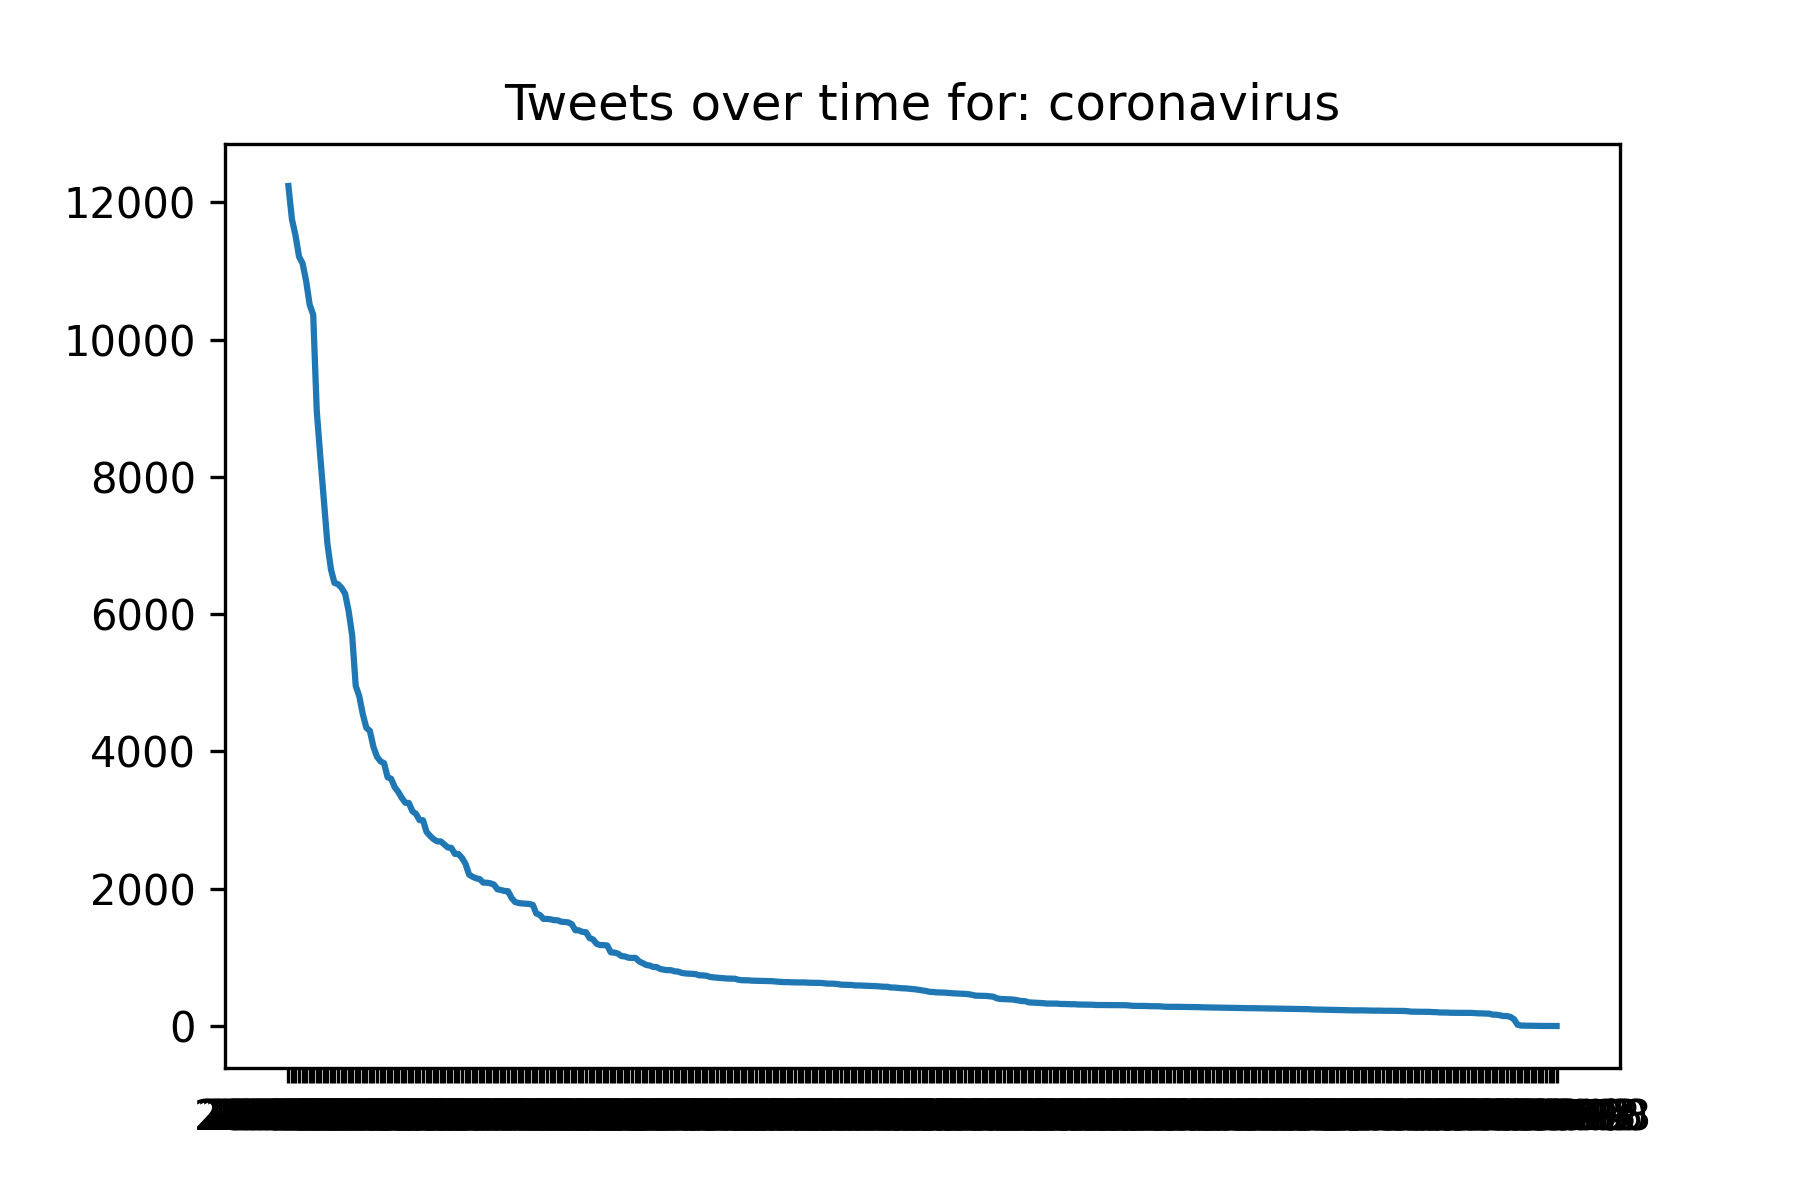
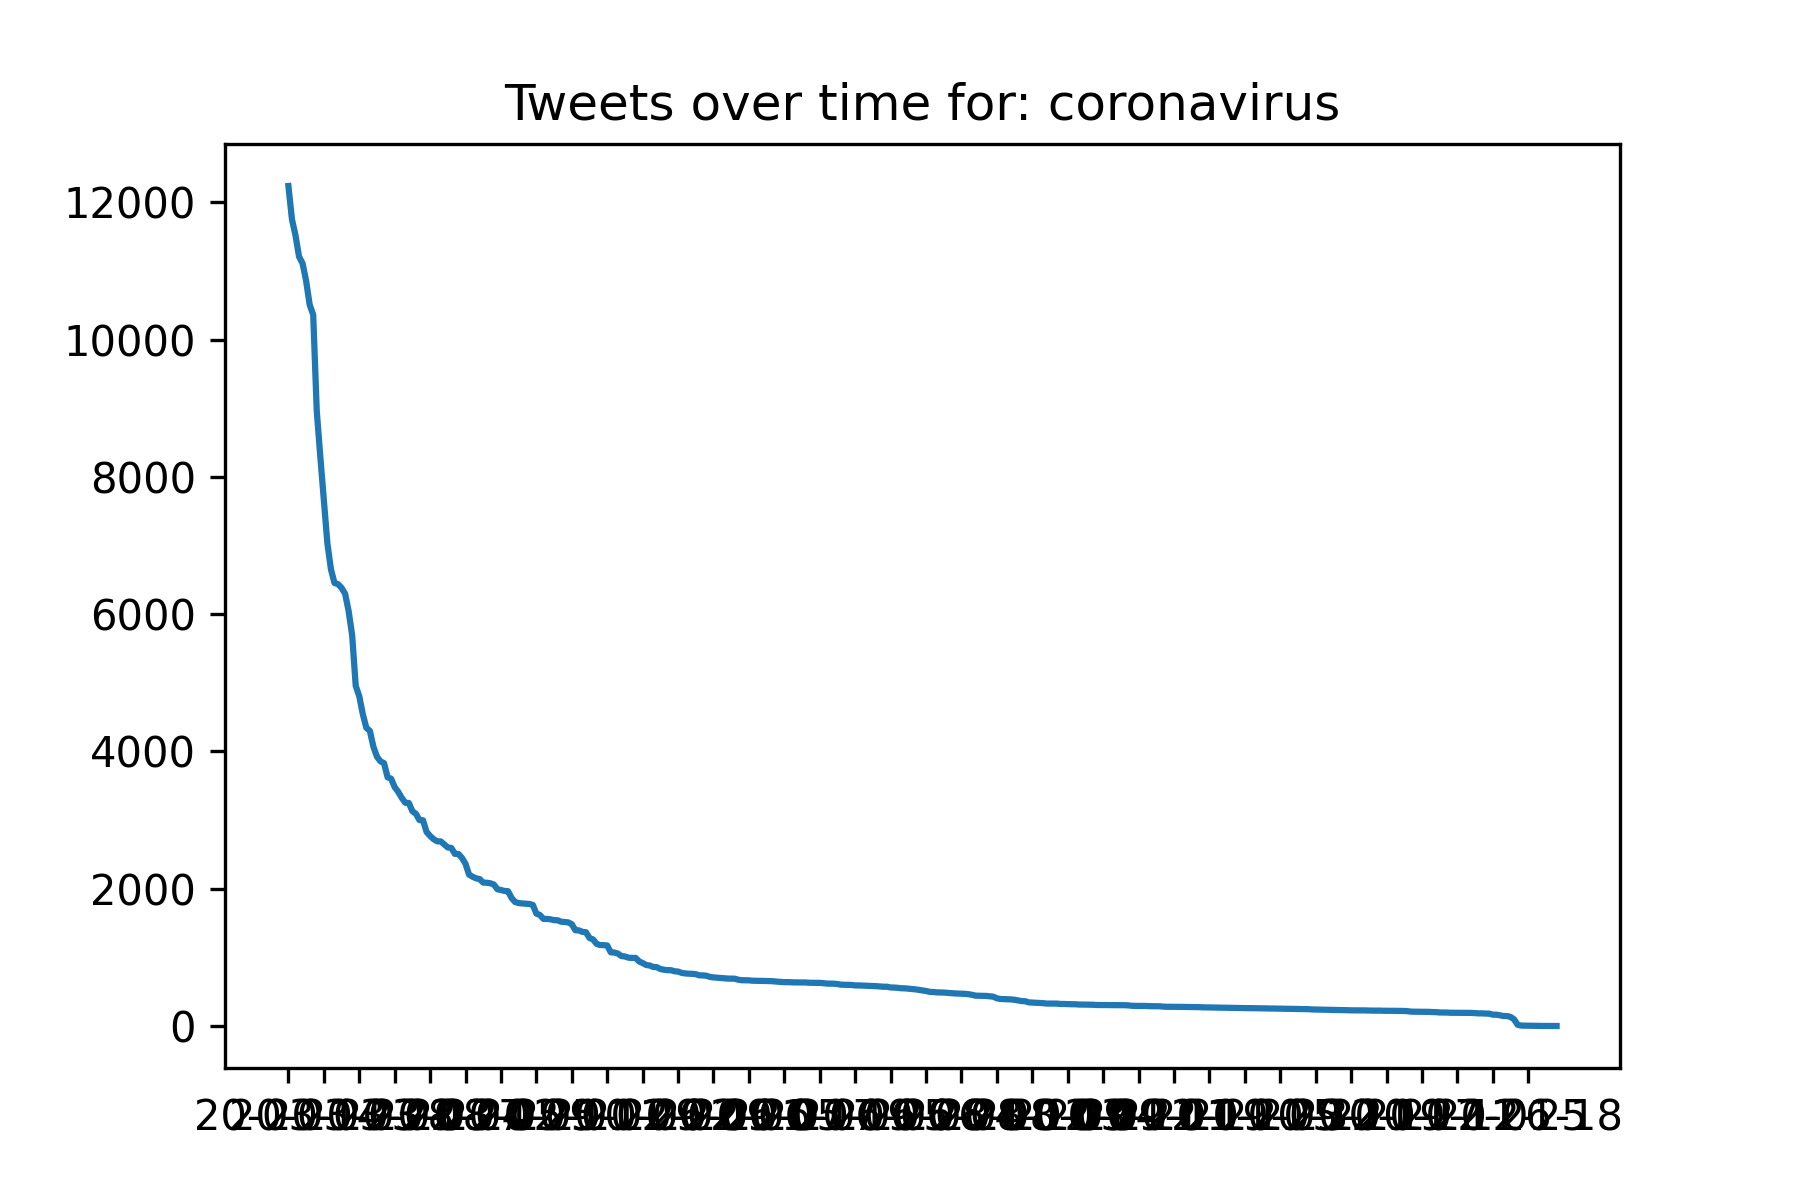
test

Changed region(s): [[0.0933, 0.8942, 0.9333, 0.9558]]

diff --git a/src/alternative_reduce.py b/src/alternative_reduce.py
@@ -81,6 +81,8 @@ categories, values = zip(*items)
 plt.figure(figsize=(6, 4))
 plt.plot(categories, values)
 
+plt.xticks(categories[::10])
+
 plt.title("Tweets over time for: " + str(args.key))
 
 plt.savefig("tweetsovertime"+str(args.key), dpi = 300)
